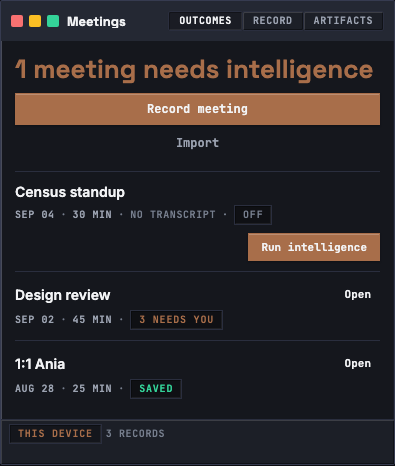
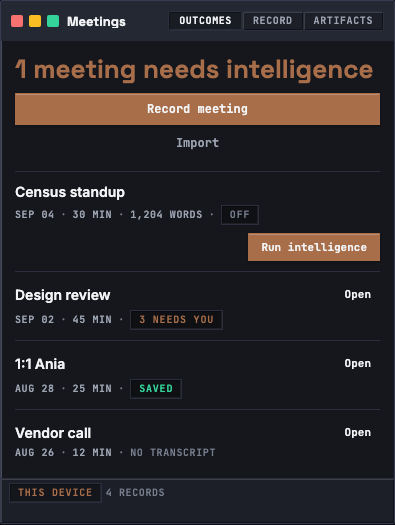
docs(design): HS-170-04 — Meetings: no dead Run verb (Census standup has words; the no-transcript row carries Open only)
Claude-Session: https://claude.ai/code/session_016siGSBgZph9EhEdGMoyWcu
PMO-Story: HS-170-04
PMO-Contract-Digest: sha256:3f48d2c4e3032c520455de68e07e5b943da7903a88971fec225eb6181070565b

diff --git a/pm/roadmap/holdspeak/phase-170-the-great-pass/assets/mockups/MeetingsList.dc.html b/pm/roadmap/holdspeak/phase-170-the-great-pass/assets/mockups/MeetingsList.dc.html
@@ -51,26 +51,24 @@
     <!-- ═══ THE STREAM (SurfaceLedger) ═══ -->
     <div style="display:flex; flex-direction:column;">
 
-      <!-- SurfaceLedgerRow 1: Census standup — OFF, needs intelligence -->
+      <!-- SurfaceLedgerRow 1: Census standup — HAS transcript, OFF, Run intelligence is honest -->
       <div style="display:flex; align-items:center; gap:8px; padding:10px 0; border-top:1px solid #2a2e3e;">
         <div style="display:flex; flex-direction:column; gap:4px; flex:1; min-width:0;">
-          <!-- LINE 1: date + title -->
           <div style="display:flex; align-items:center; gap:8px;">
             <span style="font:600 15px/1.4 'Inter',system-ui,-apple-system,BlinkMacSystemFont,'Segoe UI',sans-serif; color:#f2f3f5; white-space:nowrap; overflow:hidden; text-overflow:ellipsis; flex:1; min-width:0;">Census standup</span>
           </div>
-          <!-- LINE 2: tokens -->
           <div style="display:flex; flex-wrap:wrap; align-items:center; gap:6px;">
             <span style="font:600 10px/1 'JetBrains Mono','SFMono-Regular','SF Mono',Consolas,'Liberation Mono',monospace; letter-spacing:0.06em; text-transform:uppercase; color:#9ba2b0; white-space:nowrap;">SEP 04</span>
             <span style="font:600 10px/1 'JetBrains Mono','SFMono-Regular','SF Mono',Consolas,'Liberation Mono',monospace; color:#767e8d;">&middot;</span>
             <span style="font:600 10px/1 'JetBrains Mono','SFMono-Regular','SF Mono',Consolas,'Liberation Mono',monospace; letter-spacing:0.06em; text-transform:uppercase; color:#9ba2b0; white-space:nowrap;">30 MIN</span>
             <span style="font:600 10px/1 'JetBrains Mono','SFMono-Regular','SF Mono',Consolas,'Liberation Mono',monospace; color:#767e8d;">&middot;</span>
-            <span style="font:600 10px/1 'JetBrains Mono','SFMono-Regular','SF Mono',Consolas,'Liberation Mono',monospace; letter-spacing:0.06em; text-transform:uppercase; color:#767e8d; white-space:nowrap;">NO TRANSCRIPT</span>
+            <span style="font:600 10px/1 'JetBrains Mono','SFMono-Regular','SF Mono',Consolas,'Liberation Mono',monospace; letter-spacing:0.06em; text-transform:uppercase; color:#9ba2b0; white-space:nowrap;">1,204 WORDS</span>
             <span style="font:600 10px/1 'JetBrains Mono','SFMono-Regular','SF Mono',Consolas,'Liberation Mono',monospace; color:#767e8d;">&middot;</span>
             <!-- StateChip: OFF -->
             <span style="display:inline-flex; align-items:center; min-height:18px; padding:0 8px; border:1px solid #2a2e3e; border-radius:0; background:rgba(0,0,0,0.28); box-shadow:inset 1px 1px 0 rgba(0,0,0,0.30), inset -1px -1px 0 rgba(255,255,255,0.07); font:600 10px/1 'JetBrains Mono','SFMono-Regular','SF Mono',Consolas,'Liberation Mono',monospace; letter-spacing:0.08em; text-transform:uppercase; color:#767e8d; white-space:nowrap;">OFF</span>
           </div>
         </div>
-        <!-- Button (dense primary): Run intelligence — the state token carries its verb -->
+        <!-- Button (dense primary): Run intelligence — honest: transcript exists -->
         <button type="button" style="min-height:28px; padding:4px 12px; border:1px solid #a86e4a; border-radius:0; background:#a86e4a; color:#f2f3f5; font:600 11px/1 'JetBrains Mono','SFMono-Regular','SF Mono',Consolas,'Liberation Mono',monospace; box-shadow:inset 0 1px 0 rgba(255,255,255,0.22), 0 1px 2px rgba(0,0,0,0.3); cursor:pointer; flex-shrink:0; white-space:nowrap;">Run intelligence</button>
       </div>
 
@@ -110,6 +108,23 @@
         <button type="button" style="min-height:28px; padding:4px 12px; border:1px solid transparent; border-radius:0; background:transparent; color:#f2f3f5; font:600 12px/1 'JetBrains Mono','SFMono-Regular','SF Mono',Consolas,'Liberation Mono',monospace; cursor:pointer; flex-shrink:0;">Open</button>
       </div>
 
+      <!-- SurfaceLedgerRow 4: Vendor call — NO TRANSCRIPT, no Run (dead verb withheld) -->
+      <div style="display:flex; align-items:center; gap:8px; padding:10px 0; border-top:1px solid #2a2e3e;">
+        <div style="display:flex; flex-direction:column; gap:4px; flex:1; min-width:0;">
+          <div style="display:flex; align-items:center; gap:8px;">
+            <span style="font:600 15px/1.4 'Inter',system-ui,-apple-system,BlinkMacSystemFont,'Segoe UI',sans-serif; color:#f2f3f5; white-space:nowrap; overflow:hidden; text-overflow:ellipsis; flex:1; min-width:0;">Vendor call</span>
+          </div>
+          <div style="display:flex; flex-wrap:wrap; align-items:center; gap:6px;">
+            <span style="font:600 10px/1 'JetBrains Mono','SFMono-Regular','SF Mono',Consolas,'Liberation Mono',monospace; letter-spacing:0.06em; text-transform:uppercase; color:#9ba2b0; white-space:nowrap;">AUG 26</span>
+            <span style="font:600 10px/1 'JetBrains Mono','SFMono-Regular','SF Mono',Consolas,'Liberation Mono',monospace; color:#767e8d;">&middot;</span>
+            <span style="font:600 10px/1 'JetBrains Mono','SFMono-Regular','SF Mono',Consolas,'Liberation Mono',monospace; letter-spacing:0.06em; text-transform:uppercase; color:#9ba2b0; white-space:nowrap;">12 MIN</span>
+            <span style="font:600 10px/1 'JetBrains Mono','SFMono-Regular','SF Mono',Consolas,'Liberation Mono',monospace; color:#767e8d;">&middot;</span>
+            <span style="font:600 10px/1 'JetBrains Mono','SFMono-Regular','SF Mono',Consolas,'Liberation Mono',monospace; letter-spacing:0.06em; text-transform:uppercase; color:#767e8d; white-space:nowrap;">NO TRANSCRIPT</span>
+          </div>
+        </div>
+        <button type="button" style="min-height:28px; padding:4px 12px; border:1px solid transparent; border-radius:0; background:transparent; color:#f2f3f5; font:600 12px/1 'JetBrains Mono','SFMono-Regular','SF Mono',Consolas,'Liberation Mono',monospace; cursor:pointer; flex-shrink:0;">Open</button>
+      </div>
+
     </div>
 
   </div>
@@ -118,7 +133,7 @@
   <footer style="height:36px; padding:0 12px; background:#1c1f27; border-top:1px solid #2a2e3e; box-shadow:inset 1px 1px 0 rgba(255,255,255,0.14), inset -1px -1px 0 rgba(0,0,0,0.40); flex-shrink:0;">
     <div style="display:flex; align-items:center; height:100%; gap:6px;">
       <span style="display:inline-flex; align-items:center; min-height:18px; padding:0 8px; border:1px solid #2a2e3e; border-radius:0; background:rgba(0,0,0,0.28); box-shadow:inset 1px 1px 0 rgba(0,0,0,0.30), inset -1px -1px 0 rgba(255,255,255,0.07); font:600 10px/1 'JetBrains Mono','SFMono-Regular','SF Mono',Consolas,'Liberation Mono',monospace; letter-spacing:0.08em; text-transform:uppercase; color:#a86e4a; white-space:nowrap;">THIS DEVICE</span>
-      <span style="font:600 10px/1 'JetBrains Mono','SFMono-Regular','SF Mono',Consolas,'Liberation Mono',monospace; letter-spacing:0.06em; text-transform:uppercase; color:#767e8d;">3 RECORDS</span>
+      <span style="font:600 10px/1 'JetBrains Mono','SFMono-Regular','SF Mono',Consolas,'Liberation Mono',monospace; letter-spacing:0.06em; text-transform:uppercase; color:#767e8d;">4 RECORDS</span>
       <span style="flex:1;"></span>
     </div>
   </footer>

diff --git a/pm/roadmap/holdspeak/phase-170-the-great-pass/assets/mockups/MeetingsPhone.dc.html b/pm/roadmap/holdspeak/phase-170-the-great-pass/assets/mockups/MeetingsPhone.dc.html
@@ -46,7 +46,7 @@
     <!-- ═══ THE STREAM ═══ -->
     <div style="display:flex; flex-direction:column;">
 
-      <!-- Row 1: Census standup — OFF -->
+      <!-- Row 1: Census standup — HAS transcript, OFF, Run intelligence honest -->
       <div style="display:flex; flex-direction:column; gap:4px; padding:10px 0; border-top:1px solid #2a2e3e;">
         <div style="display:flex; align-items:center; gap:8px;">
           <span style="flex:1; min-width:0; font:600 14px/1.4 'Inter',system-ui,-apple-system,BlinkMacSystemFont,'Segoe UI',sans-serif; color:#f2f3f5; overflow-wrap:anywhere;">Census standup</span>
@@ -56,7 +56,7 @@
           <span style="font:600 10px/1 'JetBrains Mono','SFMono-Regular','SF Mono',Consolas,'Liberation Mono',monospace; color:#767e8d;">&middot;</span>
           <span style="font:600 10px/1 'JetBrains Mono','SFMono-Regular','SF Mono',Consolas,'Liberation Mono',monospace; letter-spacing:0.06em; text-transform:uppercase; color:#9ba2b0;">30 MIN</span>
           <span style="font:600 10px/1 'JetBrains Mono','SFMono-Regular','SF Mono',Consolas,'Liberation Mono',monospace; color:#767e8d;">&middot;</span>
-          <span style="font:600 10px/1 'JetBrains Mono','SFMono-Regular','SF Mono',Consolas,'Liberation Mono',monospace; letter-spacing:0.06em; text-transform:uppercase; color:#767e8d;">NO TRANSCRIPT</span>
+          <span style="font:600 10px/1 'JetBrains Mono','SFMono-Regular','SF Mono',Consolas,'Liberation Mono',monospace; letter-spacing:0.06em; text-transform:uppercase; color:#9ba2b0;">1,204 WORDS</span>
           <span style="font:600 10px/1 'JetBrains Mono','SFMono-Regular','SF Mono',Consolas,'Liberation Mono',monospace; color:#767e8d;">&middot;</span>
           <span style="display:inline-flex; align-items:center; min-height:18px; padding:0 8px; border:1px solid #2a2e3e; border-radius:0; background:rgba(0,0,0,0.28); box-shadow:inset 1px 1px 0 rgba(0,0,0,0.30), inset -1px -1px 0 rgba(255,255,255,0.07); font:600 10px/1 'JetBrains Mono','SFMono-Regular','SF Mono',Consolas,'Liberation Mono',monospace; letter-spacing:0.08em; text-transform:uppercase; color:#767e8d;">OFF</span>
         </div>
@@ -95,6 +95,21 @@
         </div>
       </div>
 
+      <!-- Row 4: Vendor call — NO TRANSCRIPT, no Run (dead verb withheld) -->
+      <div style="display:flex; flex-direction:column; gap:4px; padding:10px 0; border-top:1px solid #2a2e3e;">
+        <div style="display:flex; align-items:center; gap:8px;">
+          <span style="flex:1; min-width:0; font:600 14px/1.4 'Inter',system-ui,-apple-system,BlinkMacSystemFont,'Segoe UI',sans-serif; color:#f2f3f5; overflow-wrap:anywhere;">Vendor call</span>
+          <button type="button" style="min-height:24px; padding:2px 8px; border:1px solid transparent; border-radius:0; background:transparent; color:#f2f3f5; font:600 11px/1 'JetBrains Mono','SFMono-Regular','SF Mono',Consolas,'Liberation Mono',monospace; cursor:pointer; flex-shrink:0;">Open</button>
+        </div>
+        <div style="display:flex; flex-wrap:wrap; align-items:center; gap:6px;">
+          <span style="font:600 10px/1 'JetBrains Mono','SFMono-Regular','SF Mono',Consolas,'Liberation Mono',monospace; letter-spacing:0.06em; text-transform:uppercase; color:#9ba2b0;">AUG 26</span>
+          <span style="font:600 10px/1 'JetBrains Mono','SFMono-Regular','SF Mono',Consolas,'Liberation Mono',monospace; color:#767e8d;">&middot;</span>
+          <span style="font:600 10px/1 'JetBrains Mono','SFMono-Regular','SF Mono',Consolas,'Liberation Mono',monospace; letter-spacing:0.06em; text-transform:uppercase; color:#9ba2b0;">12 MIN</span>
+          <span style="font:600 10px/1 'JetBrains Mono','SFMono-Regular','SF Mono',Consolas,'Liberation Mono',monospace; color:#767e8d;">&middot;</span>
+          <span style="font:600 10px/1 'JetBrains Mono','SFMono-Regular','SF Mono',Consolas,'Liberation Mono',monospace; letter-spacing:0.06em; text-transform:uppercase; color:#767e8d;">NO TRANSCRIPT</span>
+        </div>
+      </div>
+
     </div>
 
   </div>
@@ -103,7 +118,7 @@
   <footer style="height:auto; min-height:36px; padding:4px 8px; background:#1c1f27; border-top:1px solid #2a2e3e; box-shadow:inset 1px 1px 0 rgba(255,255,255,0.14), inset -1px -1px 0 rgba(0,0,0,0.40); flex-shrink:0;">
     <div style="display:flex; flex-wrap:wrap; align-items:center; gap:4px;">
       <span style="display:inline-flex; align-items:center; min-height:18px; padding:0 8px; border:1px solid #2a2e3e; border-radius:0; background:rgba(0,0,0,0.28); box-shadow:inset 1px 1px 0 rgba(0,0,0,0.30), inset -1px -1px 0 rgba(255,255,255,0.07); font:600 10px/1 'JetBrains Mono','SFMono-Regular','SF Mono',Consolas,'Liberation Mono',monospace; letter-spacing:0.08em; text-transform:uppercase; color:#a86e4a; white-space:nowrap;">THIS DEVICE</span>
-      <span style="font:600 10px/1 'JetBrains Mono','SFMono-Regular','SF Mono',Consolas,'Liberation Mono',monospace; letter-spacing:0.06em; text-transform:uppercase; color:#767e8d;">3 RECORDS</span>
+      <span style="font:600 10px/1 'JetBrains Mono','SFMono-Regular','SF Mono',Consolas,'Liberation Mono',monospace; letter-spacing:0.06em; text-transform:uppercase; color:#767e8d;">4 RECORDS</span>
       <span style="flex:1;"></span>
     </div>
   </footer>

diff --git a/pm/roadmap/holdspeak/phase-170-the-great-pass/assets/mockups/MeetingsDetail.dc.html b/pm/roadmap/holdspeak/phase-170-the-great-pass/assets/mockups/MeetingsDetail.dc.html
@@ -123,7 +123,7 @@
   <footer style="height:36px; padding:0 12px; background:#1c1f27; border-top:1px solid #2a2e3e; box-shadow:inset 1px 1px 0 rgba(255,255,255,0.14), inset -1px -1px 0 rgba(0,0,0,0.40); flex-shrink:0;">
     <div style="display:flex; align-items:center; height:100%; gap:6px;">
       <span style="display:inline-flex; align-items:center; min-height:18px; padding:0 8px; border:1px solid #2a2e3e; border-radius:0; background:rgba(0,0,0,0.28); box-shadow:inset 1px 1px 0 rgba(0,0,0,0.30), inset -1px -1px 0 rgba(255,255,255,0.07); font:600 10px/1 'JetBrains Mono','SFMono-Regular','SF Mono',Consolas,'Liberation Mono',monospace; letter-spacing:0.08em; text-transform:uppercase; color:#a86e4a; white-space:nowrap;">THIS DEVICE</span>
-      <span style="font:600 10px/1 'JetBrains Mono','SFMono-Regular','SF Mono',Consolas,'Liberation Mono',monospace; letter-spacing:0.06em; text-transform:uppercase; color:#767e8d;">3 RECORDS</span>
+      <span style="font:600 10px/1 'JetBrains Mono','SFMono-Regular','SF Mono',Consolas,'Liberation Mono',monospace; letter-spacing:0.06em; text-transform:uppercase; color:#767e8d;">4 RECORDS</span>
       <span style="flex:1;"></span>
       <!-- Export verbs -->
       <button type="button" style="min-height:28px; padding:4px 12px; border:1px solid transparent; border-radius:0; background:transparent; color:#9ba2b0; font:600 12px/1 'JetBrains Mono','SFMono-Regular','SF Mono',Consolas,'Liberation Mono',monospace; cursor:pointer;">MD</button>
